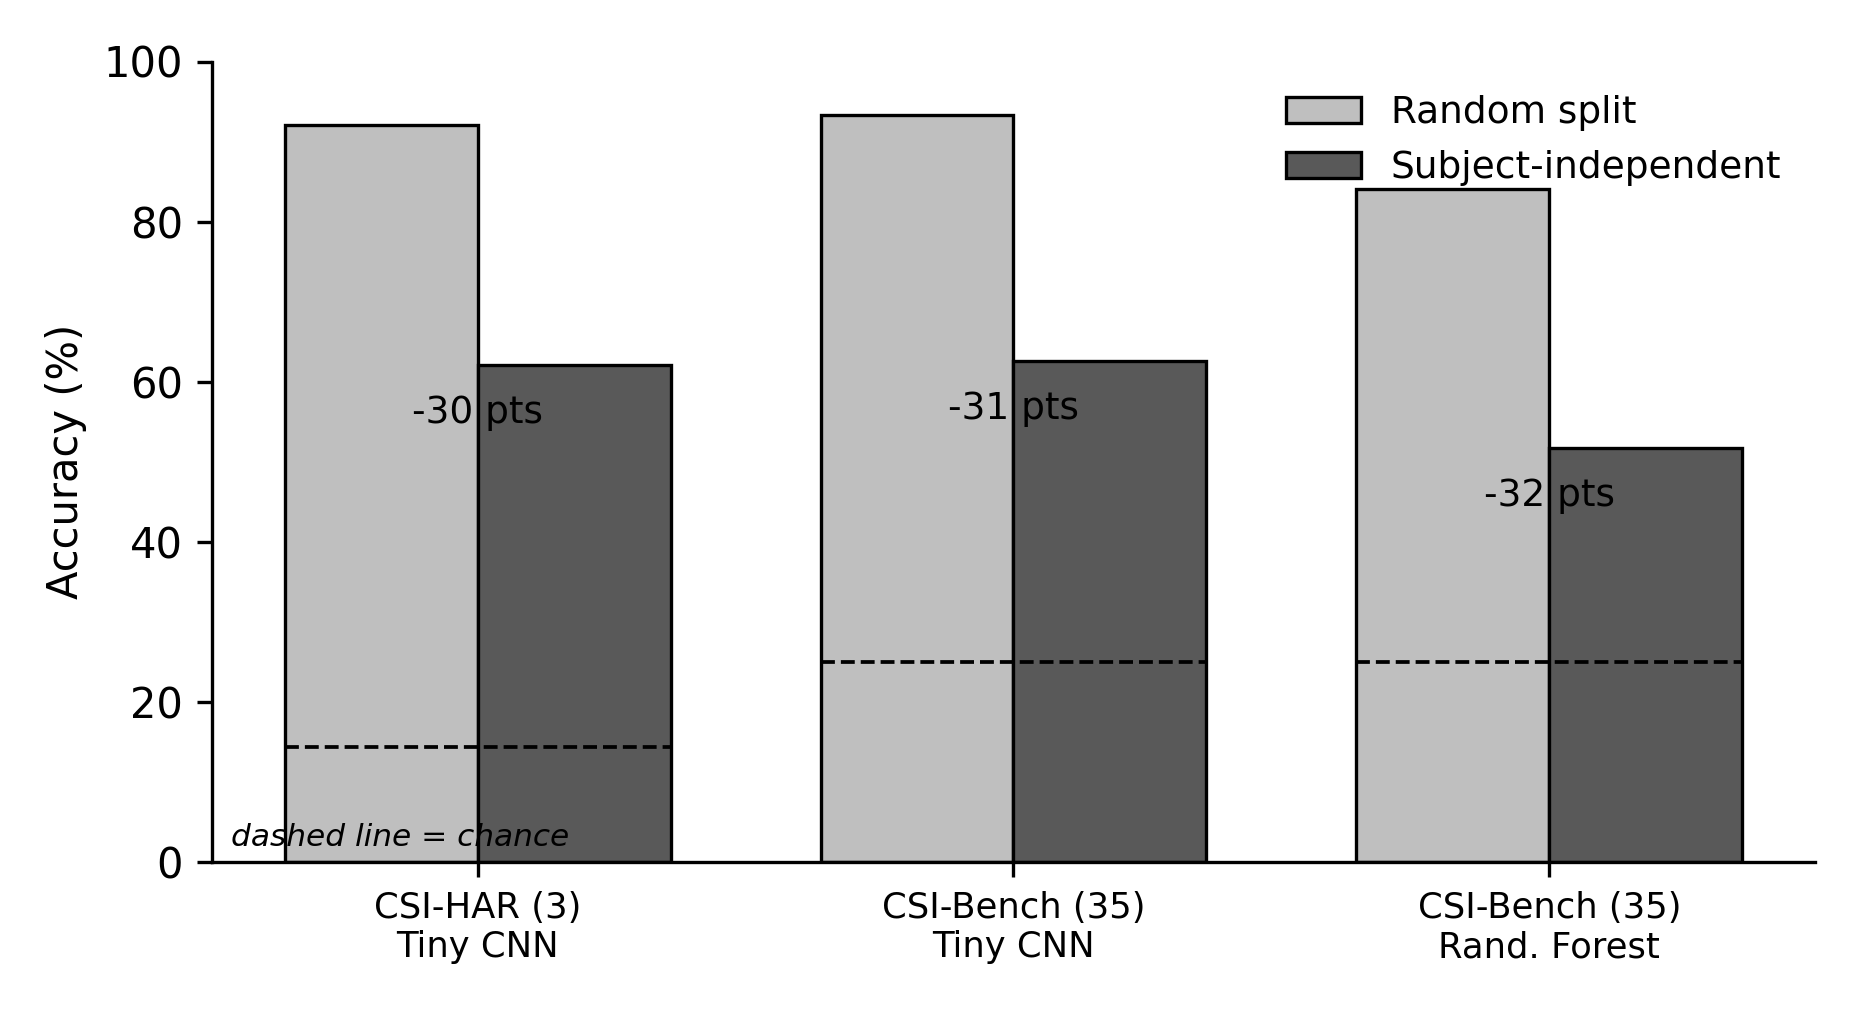
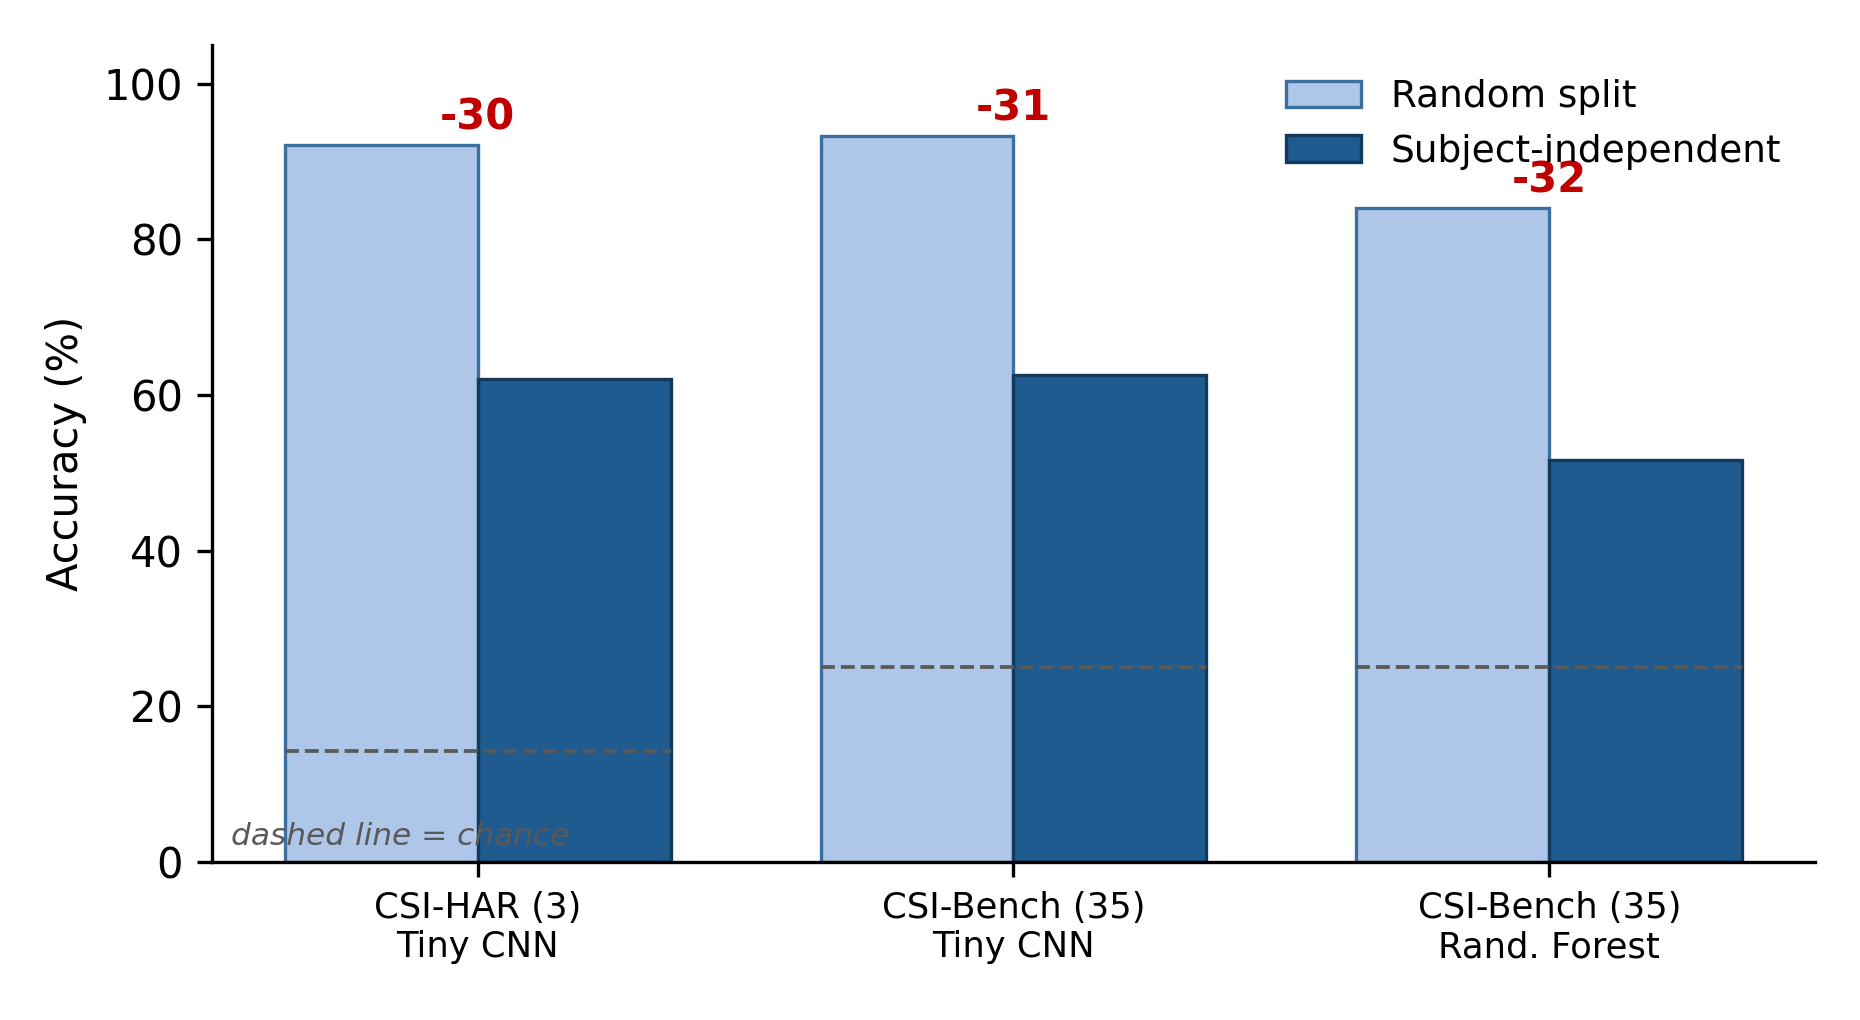
Fix compiled-PDF issues: flowing Nomenclature (IEEEdescription) and color Fig 7
- Nomenclature was a raw tabular that overflowed page 1; now an IEEEdescription list that flows across columns cleanly
- fig_gengap_external recoloured to match sibling data plots (Figs 6, 8); greyscale reserved for the schematic figures the reviewer flagged

diff --git a/manuscript/frontier.tex b/manuscript/frontier.tex
@@ -72,28 +72,28 @@ Channel state information, cross-subject generalization, edge computing, ESP32, 
 \maketitle
 
 % R1-2, R1-5, R2-3: abbreviations defined once, in order, so no acronym is used undefined.
+% Uses IEEEdescription so the list flows and breaks across columns/pages cleanly.
 \section*{Nomenclature}
-\begin{tabular}{@{}p{1.7cm}p{6.0cm}@{}}
-CNN & Convolutional Neural Network.\\
-CSI & Channel State Information.\\
-DT & Decision Tree.\\
-GRU & Gated Recurrent Unit (BiGRU: bidirectional GRU).\\
-HAR & Human Activity Recognition.\\
-KAN & Kolmogorov-Arnold Network.\\
-LOUO & Leave-One-User-Out (subject-independent evaluation in which the test user is absent from training).\\
-MCU & Microcontroller Unit.\\
-ML & Machine Learning.\\
-MLP & Multilayer Perceptron.\\
-NPU & Neural Processing Unit.\\
-PSRAM & Pseudo-Static Random-Access Memory (external RAM absent on the classic ESP32).\\
-RF & Random Forest.\\
-SIMD & Single Instruction, Multiple Data (vector kernels).\\
-SoC & System on Chip.\\
-SRAM & Static Random-Access Memory (on-chip).\\
-SSM & State-Space Model.\\
-TFLM & TensorFlow Lite for Microcontrollers.\\
-\end{tabular}
-\vspace{4pt}
+\begin{IEEEdescription}[\IEEEsetlabelwidth{PSRAM}]
+\item[CNN] Convolutional Neural Network.
+\item[CSI] Channel State Information.
+\item[DT] Decision Tree.
+\item[GRU] Gated Recurrent Unit (BiGRU: bidirectional GRU).
+\item[HAR] Human Activity Recognition.
+\item[KAN] Kolmogorov-Arnold Network.
+\item[LOUO] Leave-One-User-Out (subject-independent evaluation in which the test user is absent from training).
+\item[MCU] Microcontroller Unit.
+\item[ML] Machine Learning.
+\item[MLP] Multilayer Perceptron.
+\item[NPU] Neural Processing Unit.
+\item[PSRAM] Pseudo-Static Random-Access Memory (external RAM absent on the classic ESP32).
+\item[RF] Random Forest.
+\item[SIMD] Single Instruction, Multiple Data (vector kernels).
+\item[SoC] System on Chip.
+\item[SRAM] Static Random-Access Memory (on-chip).
+\item[SSM] State-Space Model.
+\item[TFLM] TensorFlow Lite for Microcontrollers.
+\end{IEEEdescription}
 
 \section{Introduction}
 \label{sec:introduction}
